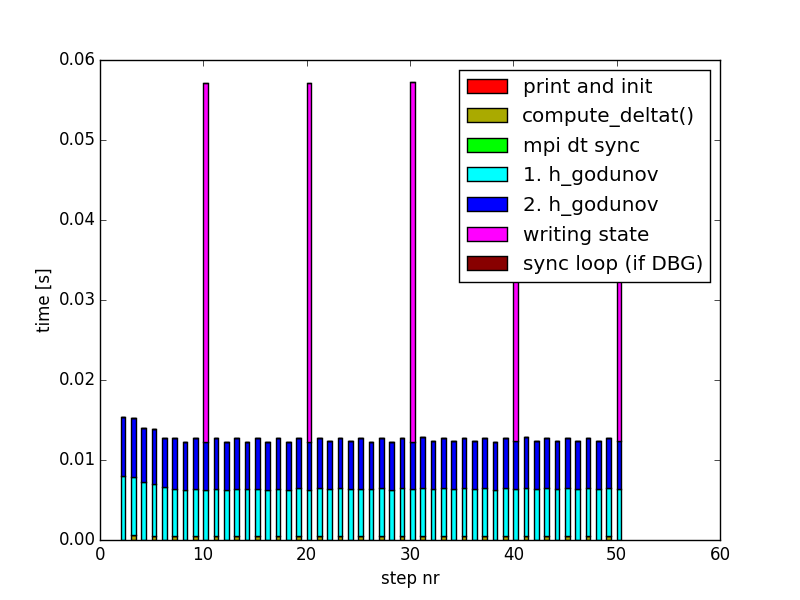
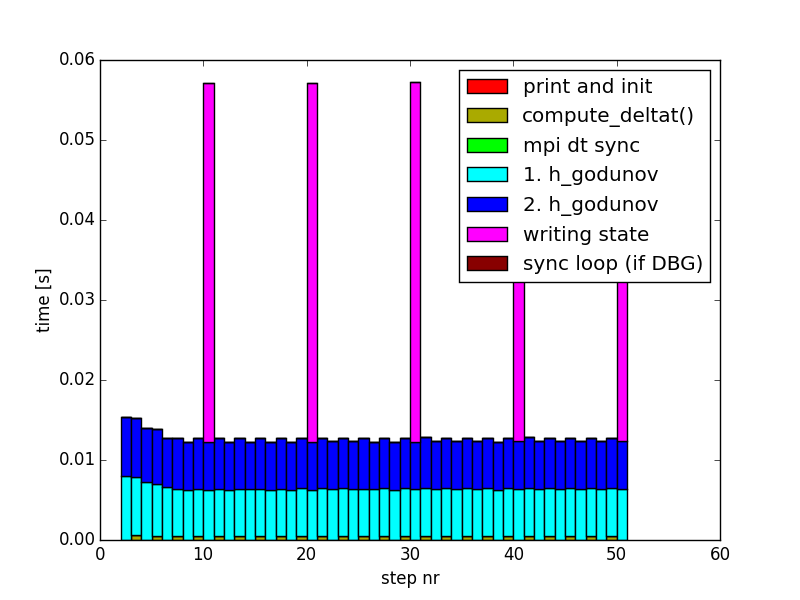
better plots

Changed region(s): [[0.1562, 0.12, 0.8125, 0.9]]

diff --git a/tools/parse_timing_file.py b/tools/parse_timing_file.py
@@ -94,7 +94,7 @@ def plot_overview(steps=(1,50), imgname = 'mainloop_overview.png'):
     ax = fig.add_subplot(111)
     
     for n, i in enumerate(range(*cols)):
-        b = ax.bar(x[sel], y[i][sel], width=width, color=colors[n], bottom=bottom)
+        b = ax.bar(x[sel], y[i][sel], width=1, color=colors[n], bottom=bottom)
         bottom += y[i][sel]
     
     #ax.set_yscale("log")
